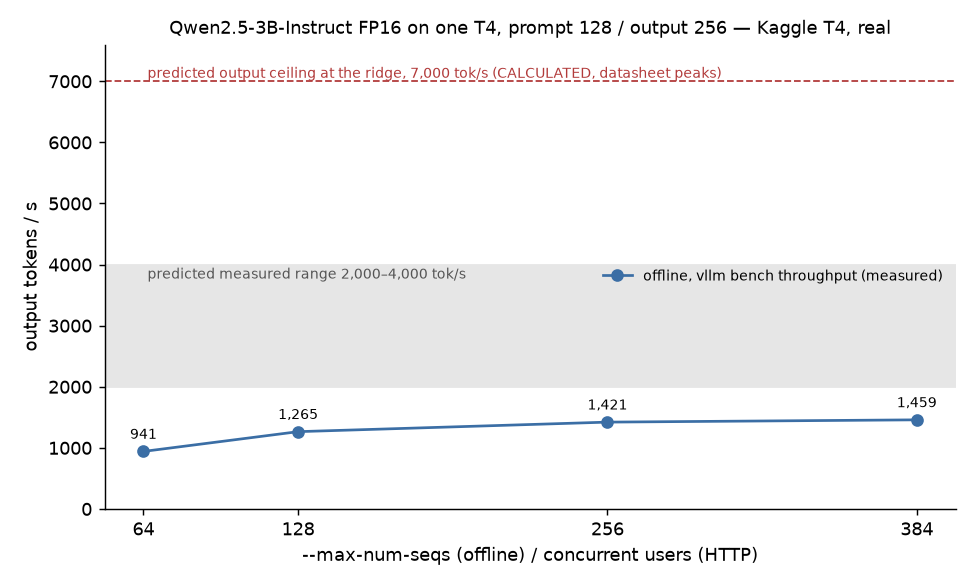
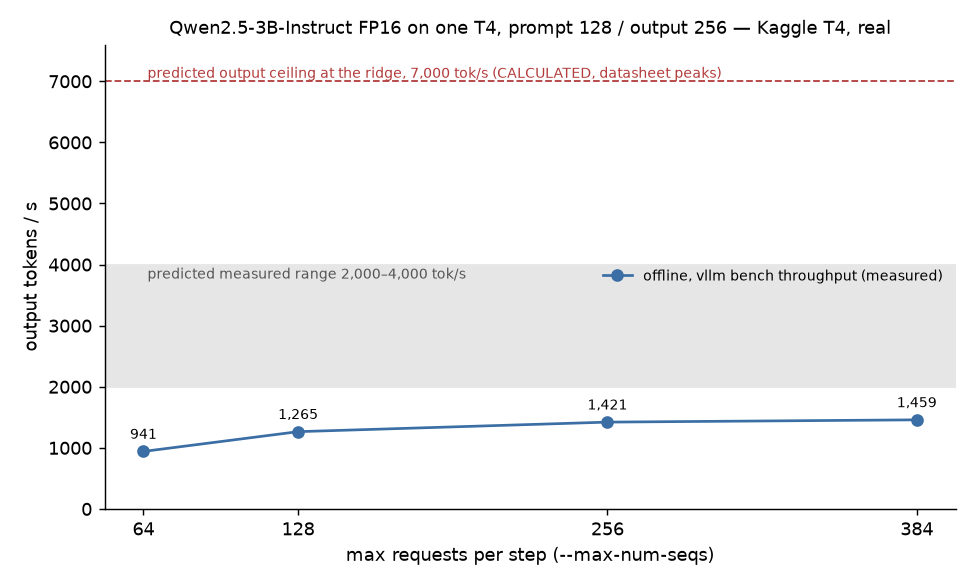
Ridge chart x-axis: 'max requests per step (--max-num-seqs)'; chart regenerated from run 20261031-082141_ridge

Changed region(s): [[0.3077, 0.9231, 0.7692, 0.9846]]

diff --git a/benchmarks/kaggle/report_ridge.py b/benchmarks/kaggle/report_ridge.py
@@ -89,7 +89,7 @@ def chart(off: list[dict], http: list[dict]) -> None:
         if v:
             ax.plot([r["users"]], [v], "s", color="#d08c2c", label=f"HTTP, {r['users']} users, {r['client_processes']} client proc (measured)")
             ax.annotate(f"{v:,.0f}", (r["users"], v), textcoords="offset points", xytext=(10, -12), fontsize=8, color="#d08c2c")
-    ax.set_xlabel("--max-num-seqs (offline) / concurrent users (HTTP)")
+    ax.set_xlabel("max requests per step (--max-num-seqs)")
     ax.set_ylabel("output tokens / s")
     ax.set_title("Qwen2.5-3B-Instruct FP16 on one T4, prompt 128 / output 256 — Kaggle T4, real", fontsize=10)
     ax.set_ylim(0, 7600)
